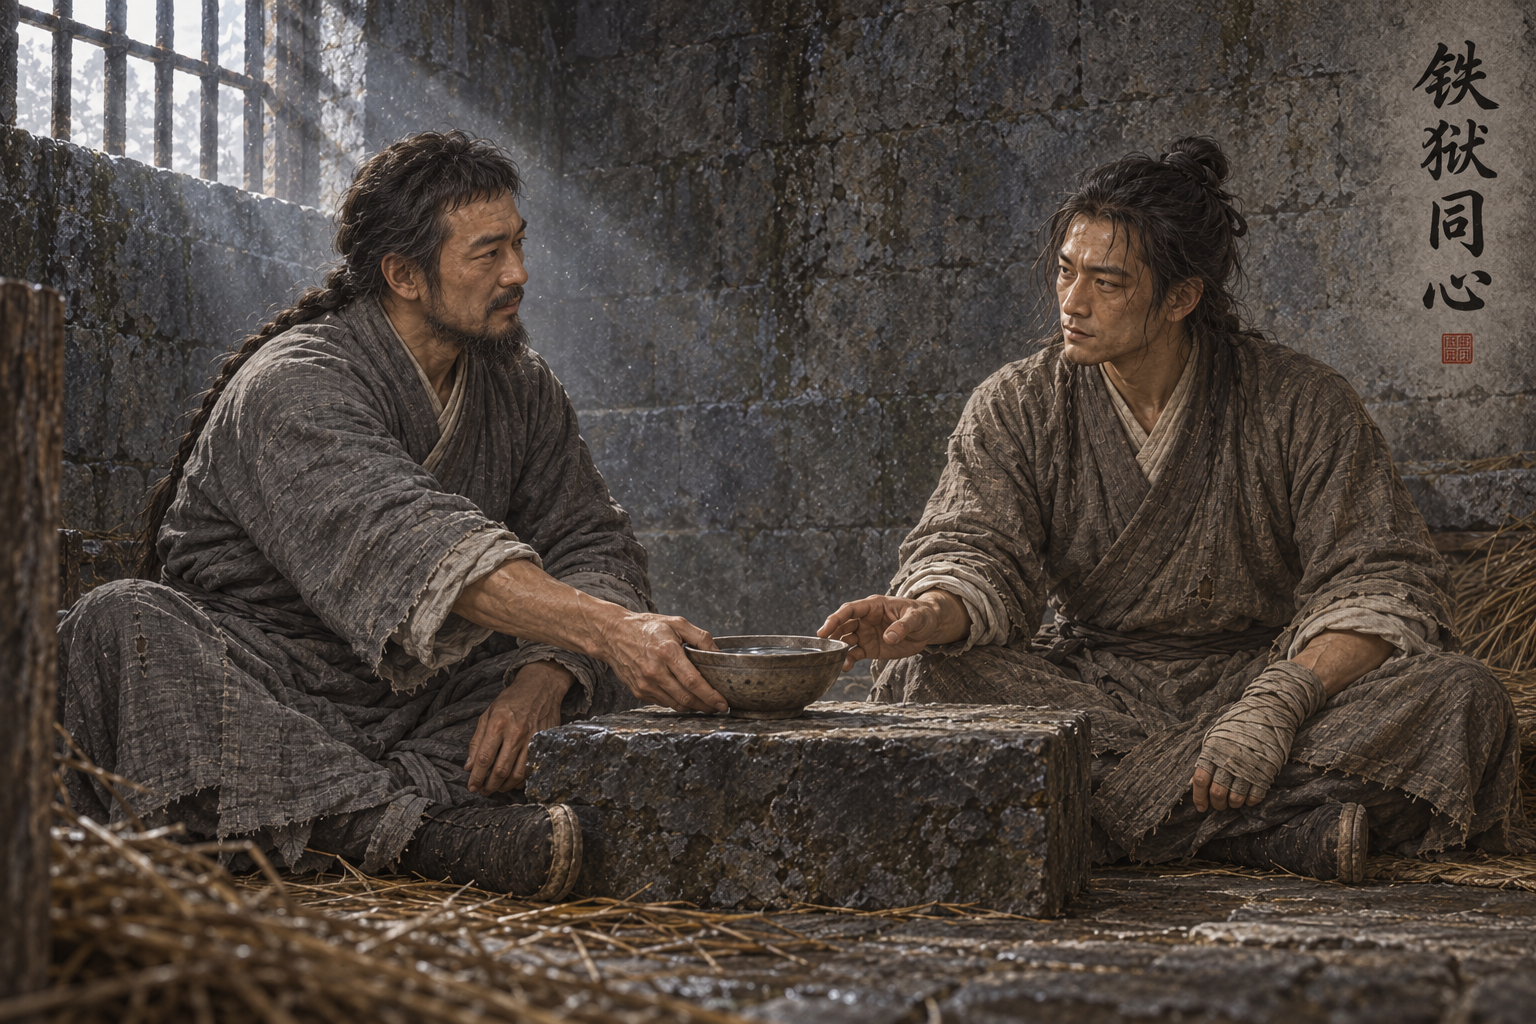
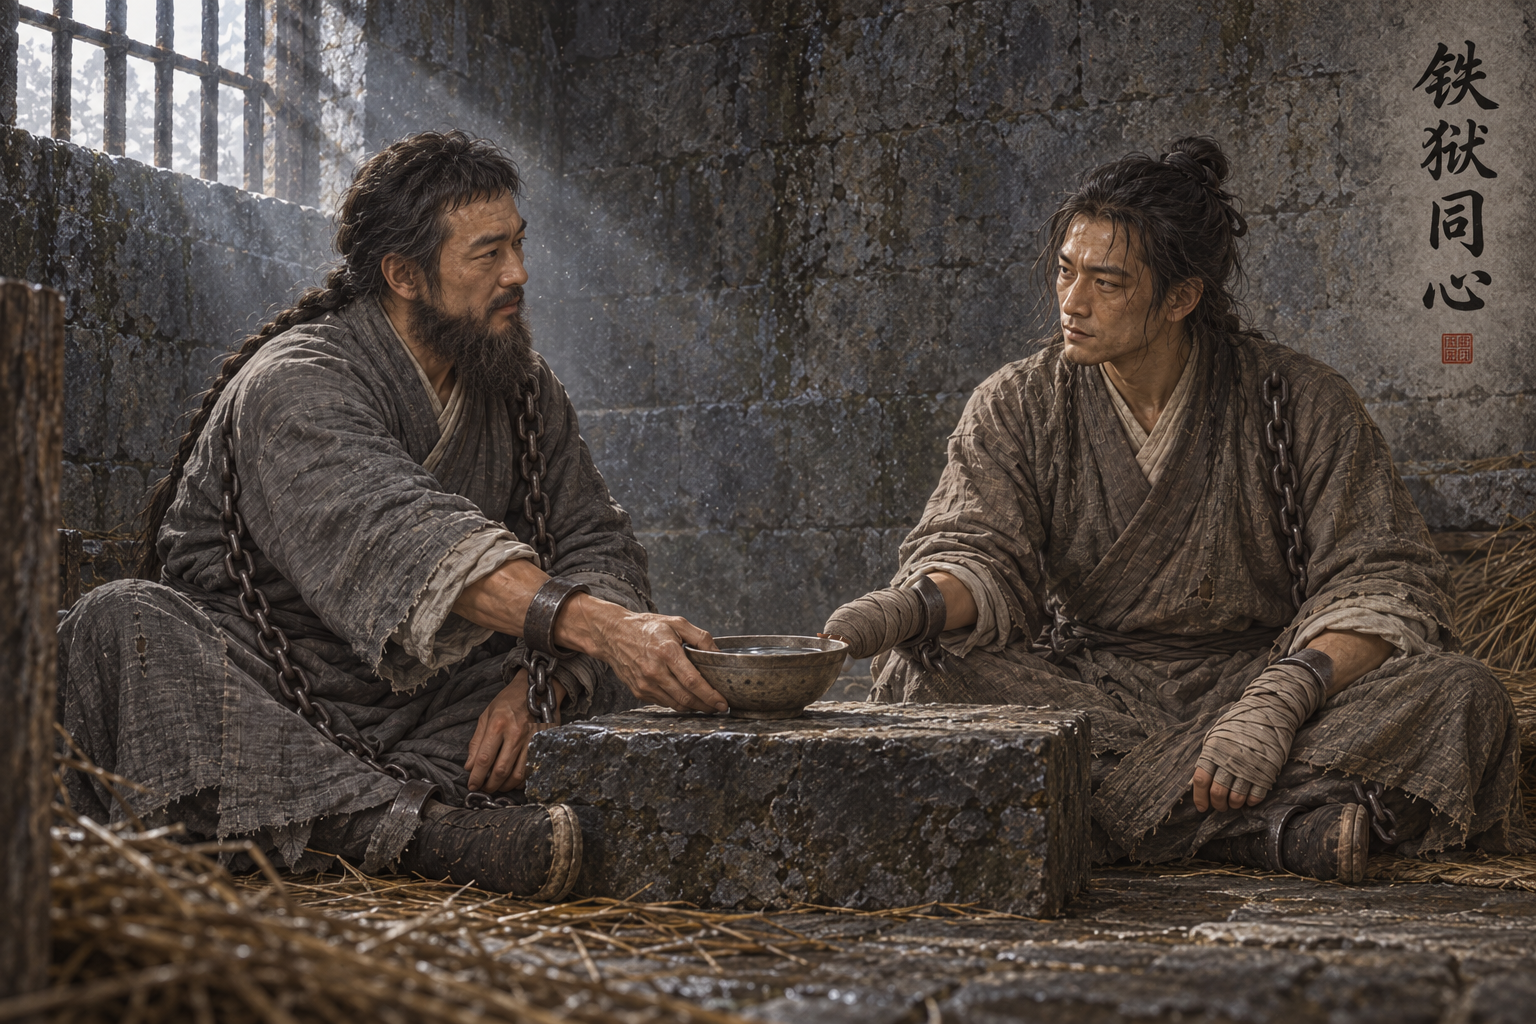
assets: AR-82 原著核对返修 铁狱同心同步丁典虬髯、两人肩链与狄云断指
铁狱同心同步丁典虬髯、两人肩链与狄云断指；原著摘句已同步提示词；蒙版外变化0像素。

Executed-By: Codex gpt-6.1-sol（AR-82）

diff --git a/assets/default/prompts/scenes/ch09-liancheng/cg_ch09_prison_bond.md b/assets/default/prompts/scenes/ch09-liancheng/cg_ch09_prison_bond.md
@@ -35,6 +35,12 @@ identity_revision: 使用本轮新复合base及对应新阶段立绘
 title_verified: 逐字放大核验：铁 / 狱 / 同 / 心；原生正确
 ---
 
+## AR-82 当前定稿要求
+
+只改两位主角的指定范围：画面左侧丁典的胡须浓密蓬乱覆盖两颊下部和下颌，原骨相眼鼻嘴及神情不变；丁典和右侧狄云两人各从双肩衣缝垂下两条铁链，连到双腕铐与双踝镣链，因坐姿被石桌遮挡处自然遮挡，不能把墙边铁链当身上束缚，不画血肉穿刺。右侧狄云向碗伸出的自身右手（画面左侧）五指全部已失，包括拇指，旧布包扎为残掌与手腕，不出现任何指头；仍可以残掌轻触碗沿，另一只手保留正常手指。原汤碗、石桌、背景、题字和两人的其他部位保持原样。
+
+以上为当前原著核对后的要求，覆盖下文旧版中与之冲突的服饰、器物、伤残、光线和体态描述。
+
 ## Gemini 提示词
 
 ```text
@@ -56,3 +62,11 @@ title_verified: 逐字放大核验：铁 / 狱 / 同 / 心；原生正确
 
 - 参考分工见实际提示词；配色、姿势、取景及成年化均为（原创扩展）。
 - 本轮结果已逐图目检并入库为 candidate；实际作业与参考哈希见 manifest。
+
+## 原著依据
+
+- 《连城诀》二《牢狱》：“琵琶骨中也穿着两条铁链”（https://xuges.com/WUXIA/jinyong/lcj/009.htm）
+- 《连城诀》二《牢狱》：“满脸虬髯”（https://xuges.com/WUXIA/jinyong/lcj/009.htm）
+- 《连城诀》二《牢狱》：“两条铁链从自己双肩垂了下来”（https://xuges.com/WUXIA/jinyong/lcj/009.htm）
+- 《连城诀》二《牢狱》：“右手的五根手指已被人削落”（https://xuges.com/WUXIA/jinyong/lcj/008.htm）
+- AR-82 返修约束：只改两位主角的指定范围：画面左侧丁典的胡须浓密蓬乱覆盖两颊下部和下颌，原骨相眼鼻嘴及神情不变；丁典和右侧狄云两人各从双肩衣缝垂下两条铁链，连到双腕铐与双踝镣链，因坐姿被石桌遮挡处自然遮挡，不能把墙边铁链当身上束缚，不画血肉穿刺。右侧狄云向碗伸出的自身右手（画面左侧）五指全部已失，包括拇指，旧布包扎为残掌与手腕，不出现任何指头；仍可以残掌轻触碗沿，另一只手保留正常手指。原汤碗、石桌、背景、题字和两人的其他部位保持原样。
